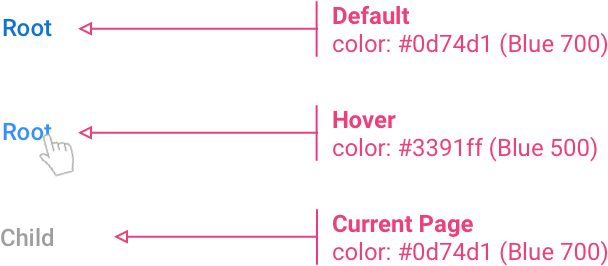
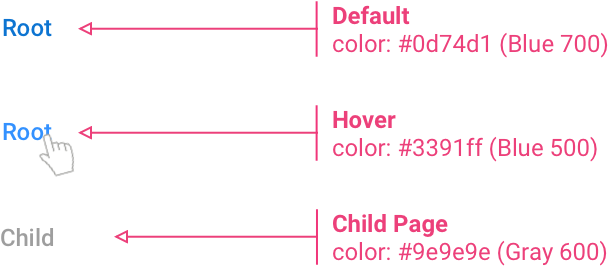
update(visuals): updated three visuals

Changed region(s): [[0.5625, 0.812, 1.0, 1.0]]

diff --git a/_component_design/breadcrumbs.md b/_component_design/breadcrumbs.md
@@ -98,7 +98,7 @@ Breadcrumbs contain the following elements:
 {% column right:"hxCol hxSpan-12-xs hxSpan-12-sm hxSpan-8-md hxSpan-8-lg" %}
 
 {% figure [caption:"Breadcrumb composition"] [class:"image bg-light border"] %}
-<embed src="{{site.baseurl}}/assets/images/components/navigation/breadcrumbs/breadcrumbs-composition.png" width="318"/>
+<embed src="{{site.baseurl}}/assets/images/components/navigation/breadcrumbs/breadcrumbs-composition.png" width="301"/>
 
 {% endfigure %}
 
@@ -118,13 +118,15 @@ Breadcrumbs contain the following elements:
 
 Use these specifications when you construct breadcrumbs.
 
+For more information about styling links, refer to [Typography]({{site.baseurl}}/style/typography.html#link).
+
 {% endcolumn %}
 
 {% column right:"hxCol hxSpan-12-xs hxSpan-12-sm hxSpan-8-md hxSpan-8-lg" %}
 
 {% figure [caption:"Breadcrumb style"] [class:"image bg-light border"] %}
 
-<embed src="{{site.baseurl}}/assets/images/components/navigation/breadcrumbs/breadcrumbs-style.png" width="386"/>
+<embed src="{{site.baseurl}}/assets/images/components/navigation/breadcrumbs/breadcrumbs-style.png" width="390"/>
 
 {% endfigure %}
 
